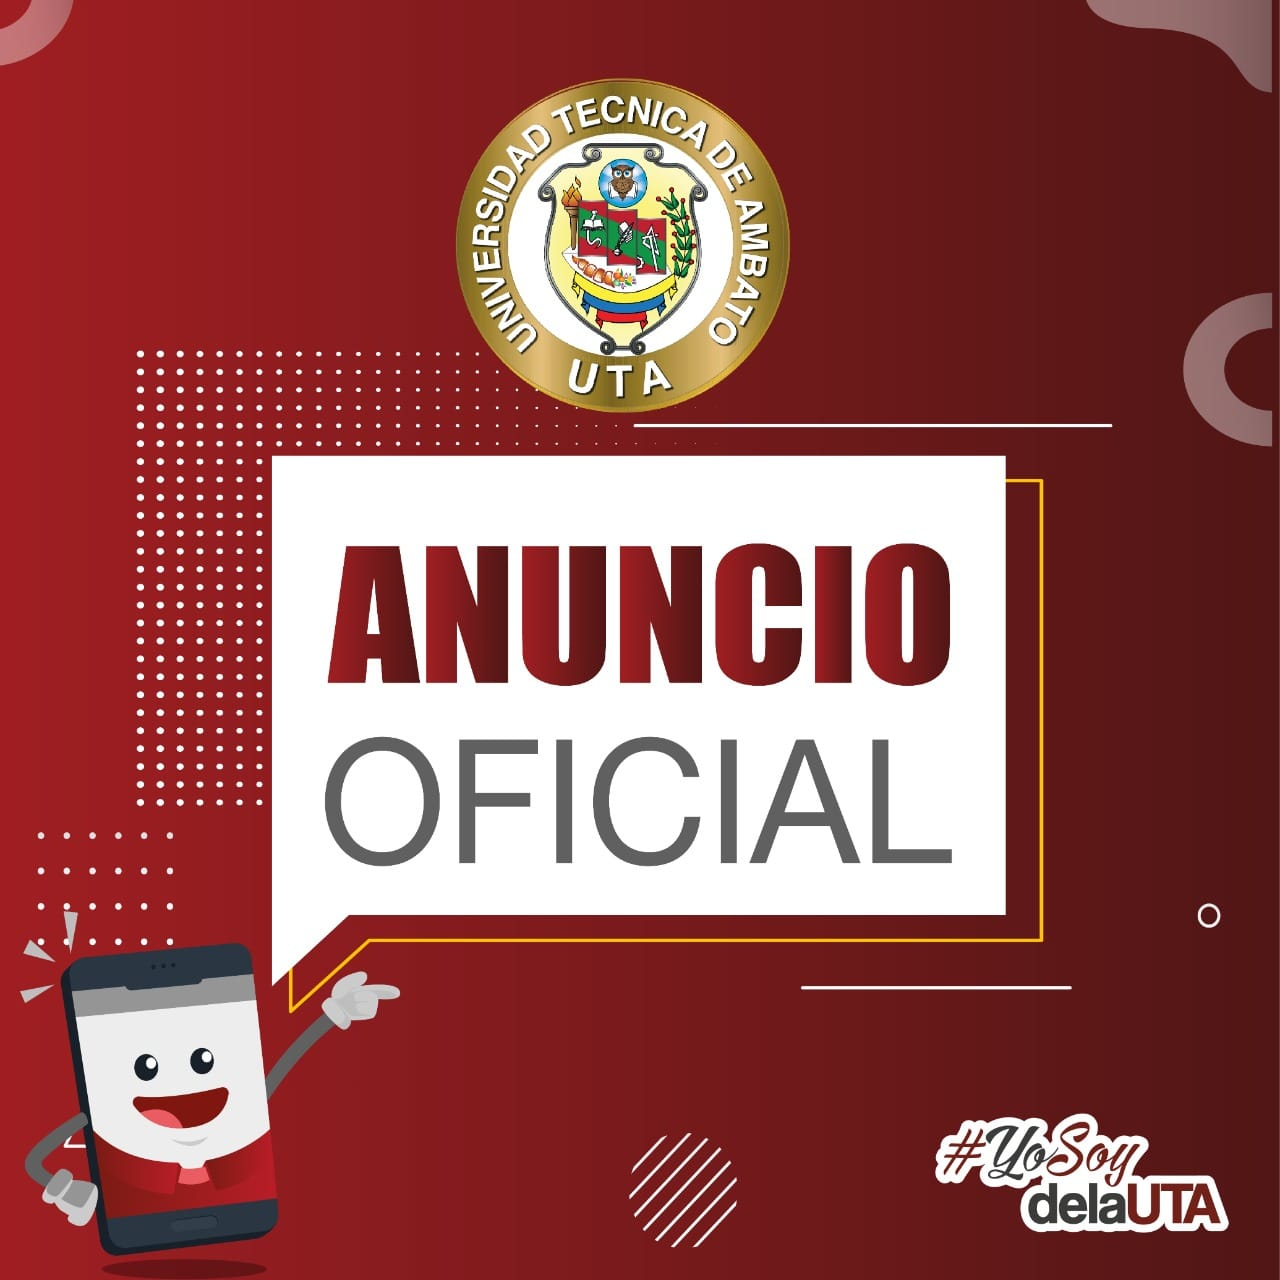
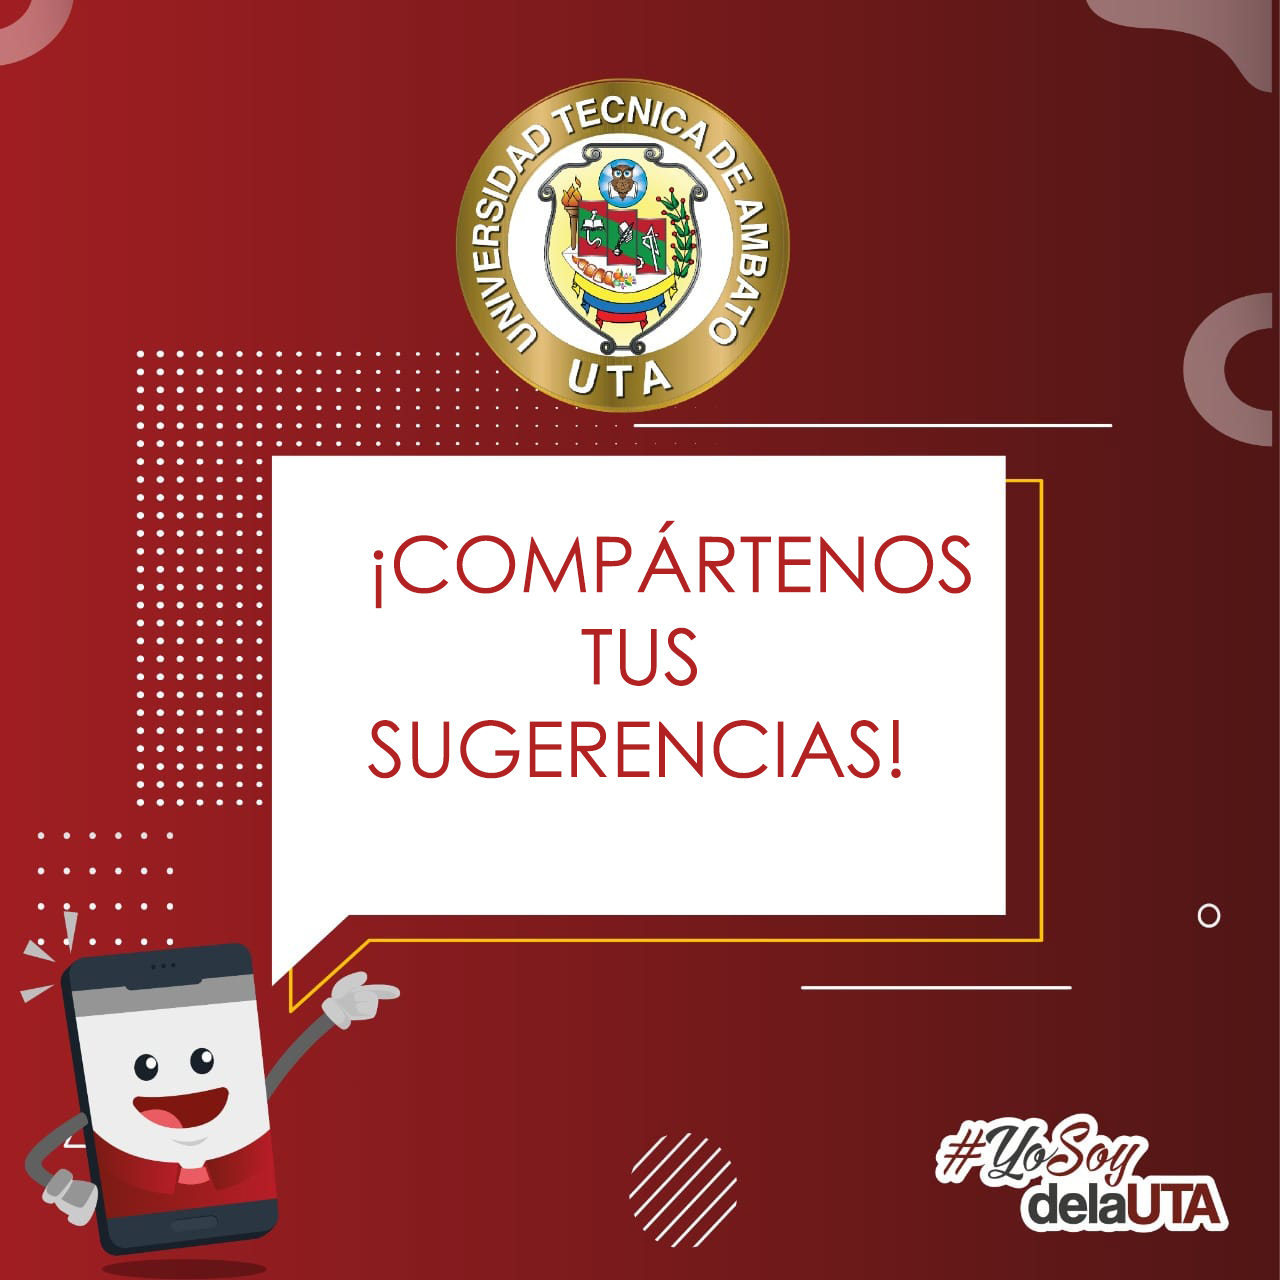
Se modificaron los archivos Estilos.cc, Inicio.php, inicio_queries.php, además, se agregarón nuevas imágenes.

Changed region(s): [[0.25, 0.4062, 0.7812, 0.6875]]

diff --git a/Home/Estilos.css b/Home/Estilos.css
@@ -98,12 +98,18 @@ header nav a:hover {
 }
 
 .slide1 {
-    background: linear-gradient(to right, #000000, #000000); 
+    background: url('Img/FONDOMARI.jpg') no-repeat center center/cover; 
 }
 
-.slide2 {
-    background: url('Img/skt.png') no-repeat center center/cover; 
+.slide3 {
+    background: url('Img/F1.jpg') no-repeat center center/cover; 
 }
+
+
+.slide5 {
+    background: url('Img/FONDOSARA.jpg') no-repeat center center/cover; 
+}
+
 
 .slider .slide img {
     max-height: 60%; 

diff --git a/Home/inicio.php b/Home/inicio.php
@@ -37,38 +37,13 @@ include('../config/config.php');
     <div class="slides">
         <div class="slide slide1 active">
             <div class="content">
-                <h1><?php echo htmlspecialchars($candidato_nombre); ?></h1>
-                <p><?php echo htmlspecialchars($candidato_biografia); ?></p>
+
             </div>
-            <img src="Img\fo1.jpg" alt="Candidate Image">
         </div>
-        <div class="slide slide2">
+        <div class="slide slide5">
             <div class="content">
-                <h1><?php echo htmlspecialchars($propuesta_titulo); ?></h1>
-                <p><?php echo htmlspecialchars($propuesta_descripcion); ?></p>
+
             </div>
-            <img src="Img\mari2.jpg" alt="Propuesta Image">
-        </div>
-        <div class="slide slide2">
-            <div class="content">
-                <h1><?php echo htmlspecialchars($evento_titulo); ?></h1>
-                <p><?php echo htmlspecialchars($evento_descripcion); ?></p>
-            </div>
-            <img src="Img\fo2.jpg" alt="Evento Image">
-        </div>
-        <div class="slide slide2">
-            <div class="content">
-            <h1><?php echo htmlspecialchars($sugerencia_titulo); ?></h1>
-            <p><?php echo htmlspecialchars($sugerencia_descripcion); ?></p>
-            </div>
-            <img src="Img\mari.jpg" alt="Sugerencias Image">
-        </div>
-        <div class="slide slide2">
-            <div class="content">
-            <h1><?php echo htmlspecialchars($nombre_partido); ?></h1>
-            <p><?php echo htmlspecialchars($descripcion_partido); ?></p>
-            </div>
-            <img src="Img\mari.jpg" alt="Sugerencias Image">
         </div>
     </div>
     <button class="prev">&#10094;</button>
@@ -107,7 +82,7 @@ include('../config/config.php');
     <div class="eventos-grid">
         <?php foreach ($eventos_noticias as $evento_noticia): ?>
         <div class="evento-card">
-            <img src="Img\anuncio.jpg" alt="Evento Imagen">
+            <img src="Img\eventosynoticias.jpg" alt="Evento Imagen">
             <div class="evento-info">
                 <h3><?php echo htmlspecialchars($evento_noticia['titulo']); ?></h3>
                 <p><?php echo htmlspecialchars($evento_noticia['descripcion']); ?></p>
